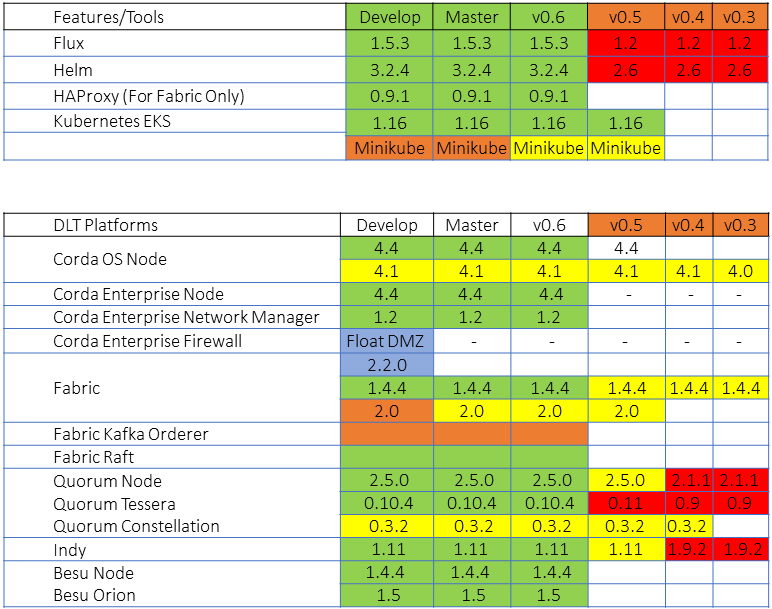
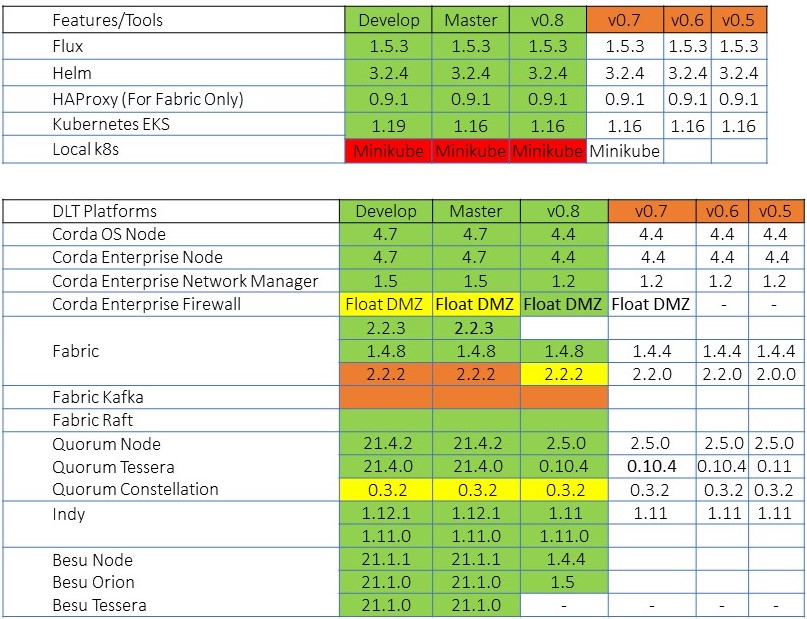
Updated roadmap and CM

diff --git a/docs/source/roadmap.rst b/docs/source/roadmap.rst
@@ -6,12 +6,14 @@ BAF current roadmap
     title BAF current roadmap
     dateFormat  YY-MM-DD
     section Platform
-    Platforms and components upgrade: active, 21-01-07, 180d
-    Corda Ent. OFE*: active, 20-11-15, 180d
-    Fabric OFE*: active, 20-10-15, 240d
-    Besu OFE*: active, 21-01-07, 150d
+    Platforms and components upgrade: active, 21-05-01, 180d
+    Corda Ent. OFE*: active, 21-06-01, 120d
+    Fabric OFE*: active, 21-05-01, 120d
+    Besu OFE*: active, 21-06-01, 60d
+    Quorum OFE*: active, 21-06-15, 60d
+    Ansible Decoupling: active, 21-06-20, 90d
     section Application
-    Besu Ref App: b4, 20-10-15, 120d
+    Besu Ref App: active, 21-06-15, 60d
 
 .. |pin| image:: https://github.githubassets.com/images/icons/emoji/unicode/1f4cc.png?v8
     :width: 15pt
@@ -52,24 +54,26 @@ General
 -  |run| Improve the existing ``readthedocs`` documentations
 -  |run| Platforms and components upgrade:
     - |tick| Helm3 upgrade
-    - |tick| EKS upgrade to 1.16
     - |tick| Ambassador upgrade to 1.9.1
     - |tick| Complete molecule test scenarios for BAF R3 Corda OS and HL Fabric
+    - |run| EKS upgrade to 1.19
     - |pin| Setup AWS cloudwatch exporter
     - |pin| Grafana and Promethus integration 
     - |pin| Flux version upgrade
     - |pin| Support for HashiCorp vault kv version 2
     - |pin| Improve logging/error messaging in playbooks
-    - |hand| Java version upgrades
 
 Platforms
 ---------
+- |run| Reduce/Decouple ansible dependecy in DLT platforms automation
 - |run| Corda Ent. operational feature enhancements
     - |tick| Enable mutiple notaries
     - |tick| Test R3 Corda version 4.7 upgrade
     - |tick| Test CENM version upgrade to 1.5
-    - |pin| Addition of notary node to an existing network
+    - |run| Addition of notary node organisation to an existing network
+    - |pin| HA Notary options
     - |pin| Enable PostGreSQL support for Corda Enterprise
+    - |pin| CENM 1.5 serives (Auth, Gateway and Zone)
     - |hand| Removable of node
 - |run| HL Fabric operational feature enhancements
     - |tick| HL Fabric 2.2 version upgrade
@@ -78,18 +82,21 @@ Platforms
     - |run| Feature for user identities
     - |run| External chaincode for Fabric 2.2.x
     - |pin| CI/CD piplelines for chaincode deployment
-
 - |run| HL Besu operational feature enhancements
     - |tick| Enable DNS support
+    - |tick| Addition of new validator node
+    - |tick| Add tessera transaction manager support
     - |pin| Enable deployment without proxy (proxy as none option)
     - |pin| Add clique consensus mechanism support 
-    - |run| Addition of new validator node
+    - |pin| Add ethash consensus mechanism support
     - |hand| Enable bootnodes
-
+- |run| Quorum operational feature enhancements
+    - |tick| Version upgrade (Tessera and Quorum node) - v21.4.x 
+    - |pin| Implement private transactions
 
 Application
 -----------
--  |hand| Hyperledger Besu reference application
+-  |run| Hyperledger Besu reference application
 
 
 Histroic DLT/Blockchain support releases
